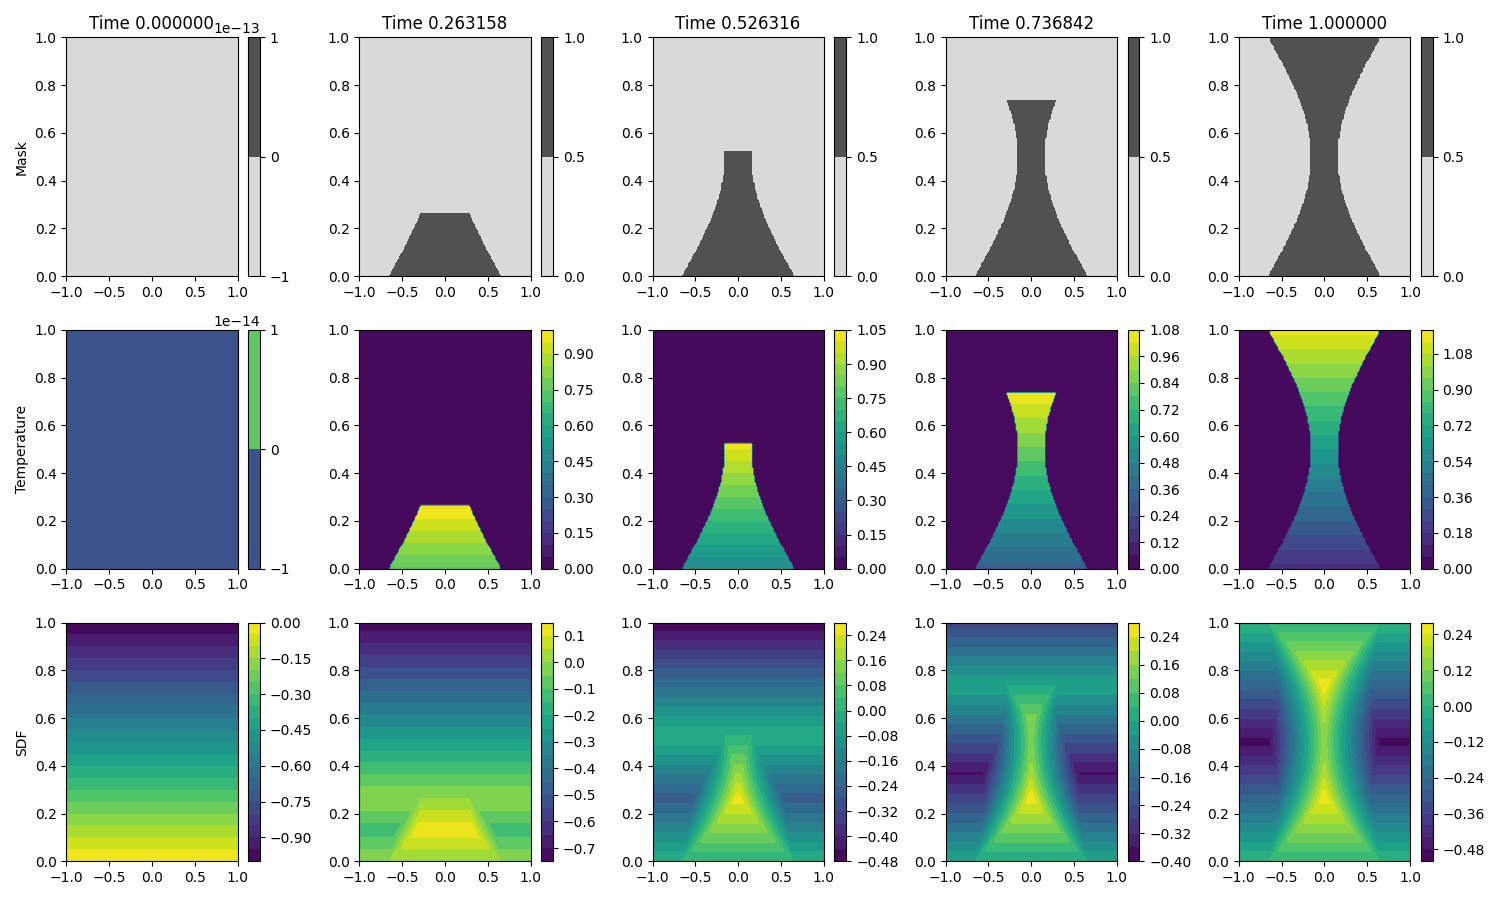
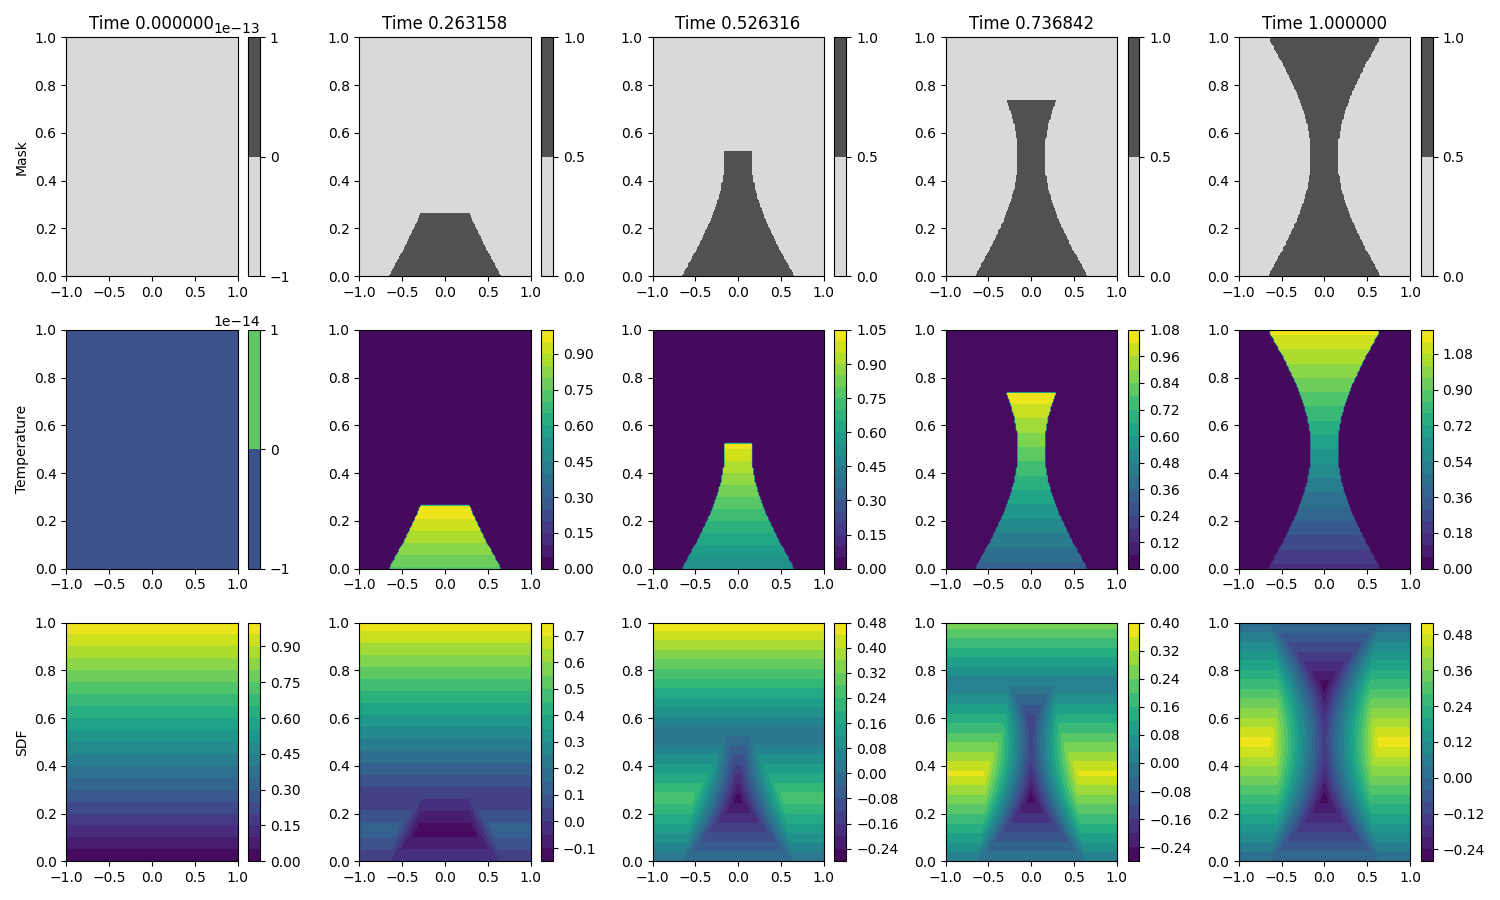
fixed sdf typo

diff --git a/sandbox/shape.py b/sandbox/shape.py
@@ -64,7 +64,7 @@ class Shape:
 
         dist = torch.minimum(bdist, tdist)
         dist = torch.minimum(dist , rdist)
-        sign = 2 * mask - 1
+        sign = 1 - 2 * mask
         sdf  = dist * sign
 
         return mask, temp * mask, disp * mask, sdf
